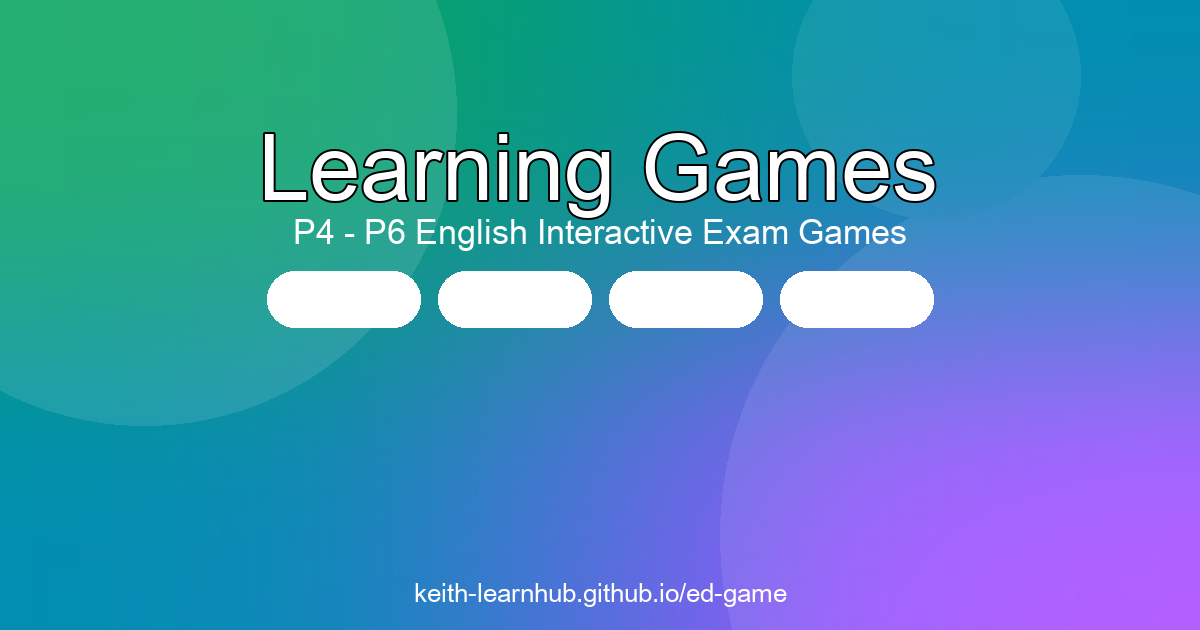
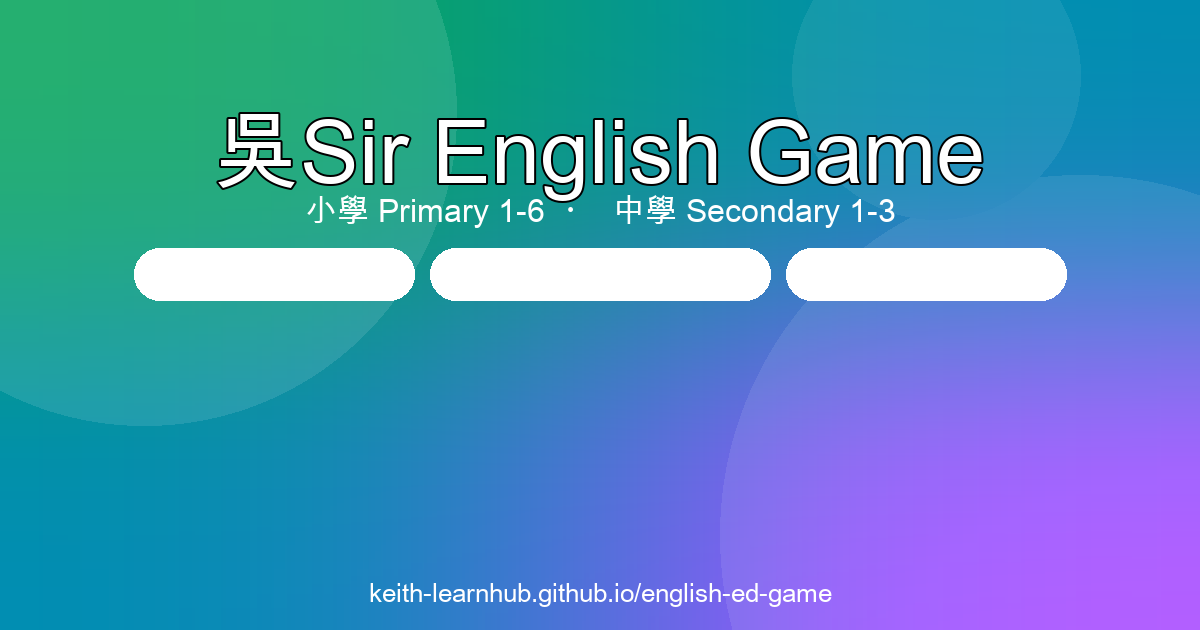
Add files via upload

Changed region(s): [[0.0925, 0.181, 0.8942, 0.5429], [0.3083, 0.9349, 0.7092, 0.9651]]

diff --git a/index.html b/index.html
@@ -14,16 +14,16 @@
 <meta name="description" content="P4–P6 English interactive exam games — spelling, grammar, reading & writing, with teacher and parent reports.">
 <meta property="og:type" content="website">
 <meta property="og:title" content="吳Sir English Game · 學習遊戲">
-<meta property="og:description" content="P4–P6 English interactive exam games — spelling, grammar, reading & writing, with teacher and parent reports.">
-<meta property="og:url" content="https://keith-learnhub.github.io/ed-game/">
-<meta property="og:image" content="https://keith-learnhub.github.io/ed-game/og-image.png">
+<meta property="og:description" content="小學 P1–P6 及中學 F1–F3 英文互動遊戲 — 串字、文法、閱讀，附老師及家長報告。">
+<meta property="og:url" content="https://keith-learnhub.github.io/english-ed-game/">
+<meta property="og:image" content="https://keith-learnhub.github.io/english-ed-game/og-image.png">
 <meta property="og:image:width" content="1200">
 <meta property="og:image:height" content="630">
 <meta property="og:site_name" content="吳Sir English Game">
 <meta name="twitter:card" content="summary_large_image">
 <meta name="twitter:title" content="吳Sir English Game · 學習遊戲">
-<meta name="twitter:description" content="P4–P6 English interactive exam games with teacher & parent reports.">
-<meta name="twitter:image" content="https://keith-learnhub.github.io/ed-game/og-image.png">
+<meta name="twitter:description" content="小學 P1–P6 及中學 F1–F3 英文互動遊戲，附老師及家長報告。">
+<meta name="twitter:image" content="https://keith-learnhub.github.io/english-ed-game/og-image.png">
 <link rel="stylesheet" href="https://miaoda.feishu.cn/fonts/css2?family=Baloo+2:wght@500;600;700;800&family=Noto+Sans+TC:wght@400;500;700;900&display=swap">
 <style>
 :root{--green:#10b981;--green-d:#059669;--amber:#ff9f1c;--purple:#8b5cf6;--ink:#2b2d42;--ink-soft:#5c5f73;--line:#ece7da;--cream:#f7f3e8;--card:#fff;--radius:22px;--shadow:0 10px 26px rgba(43,45,66,.10)}
